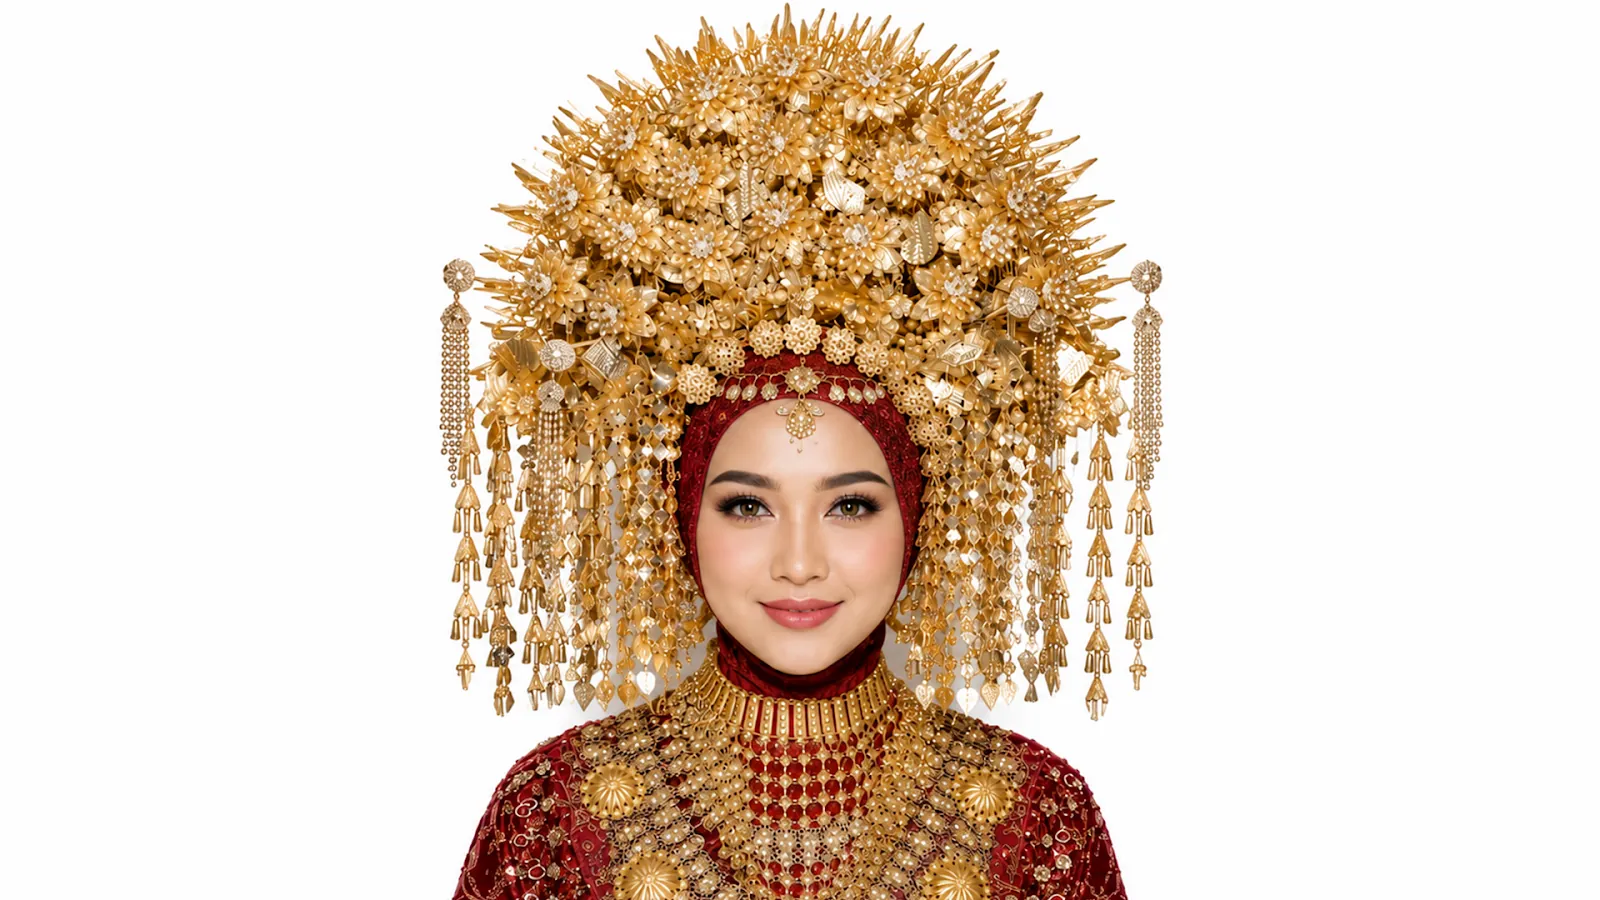
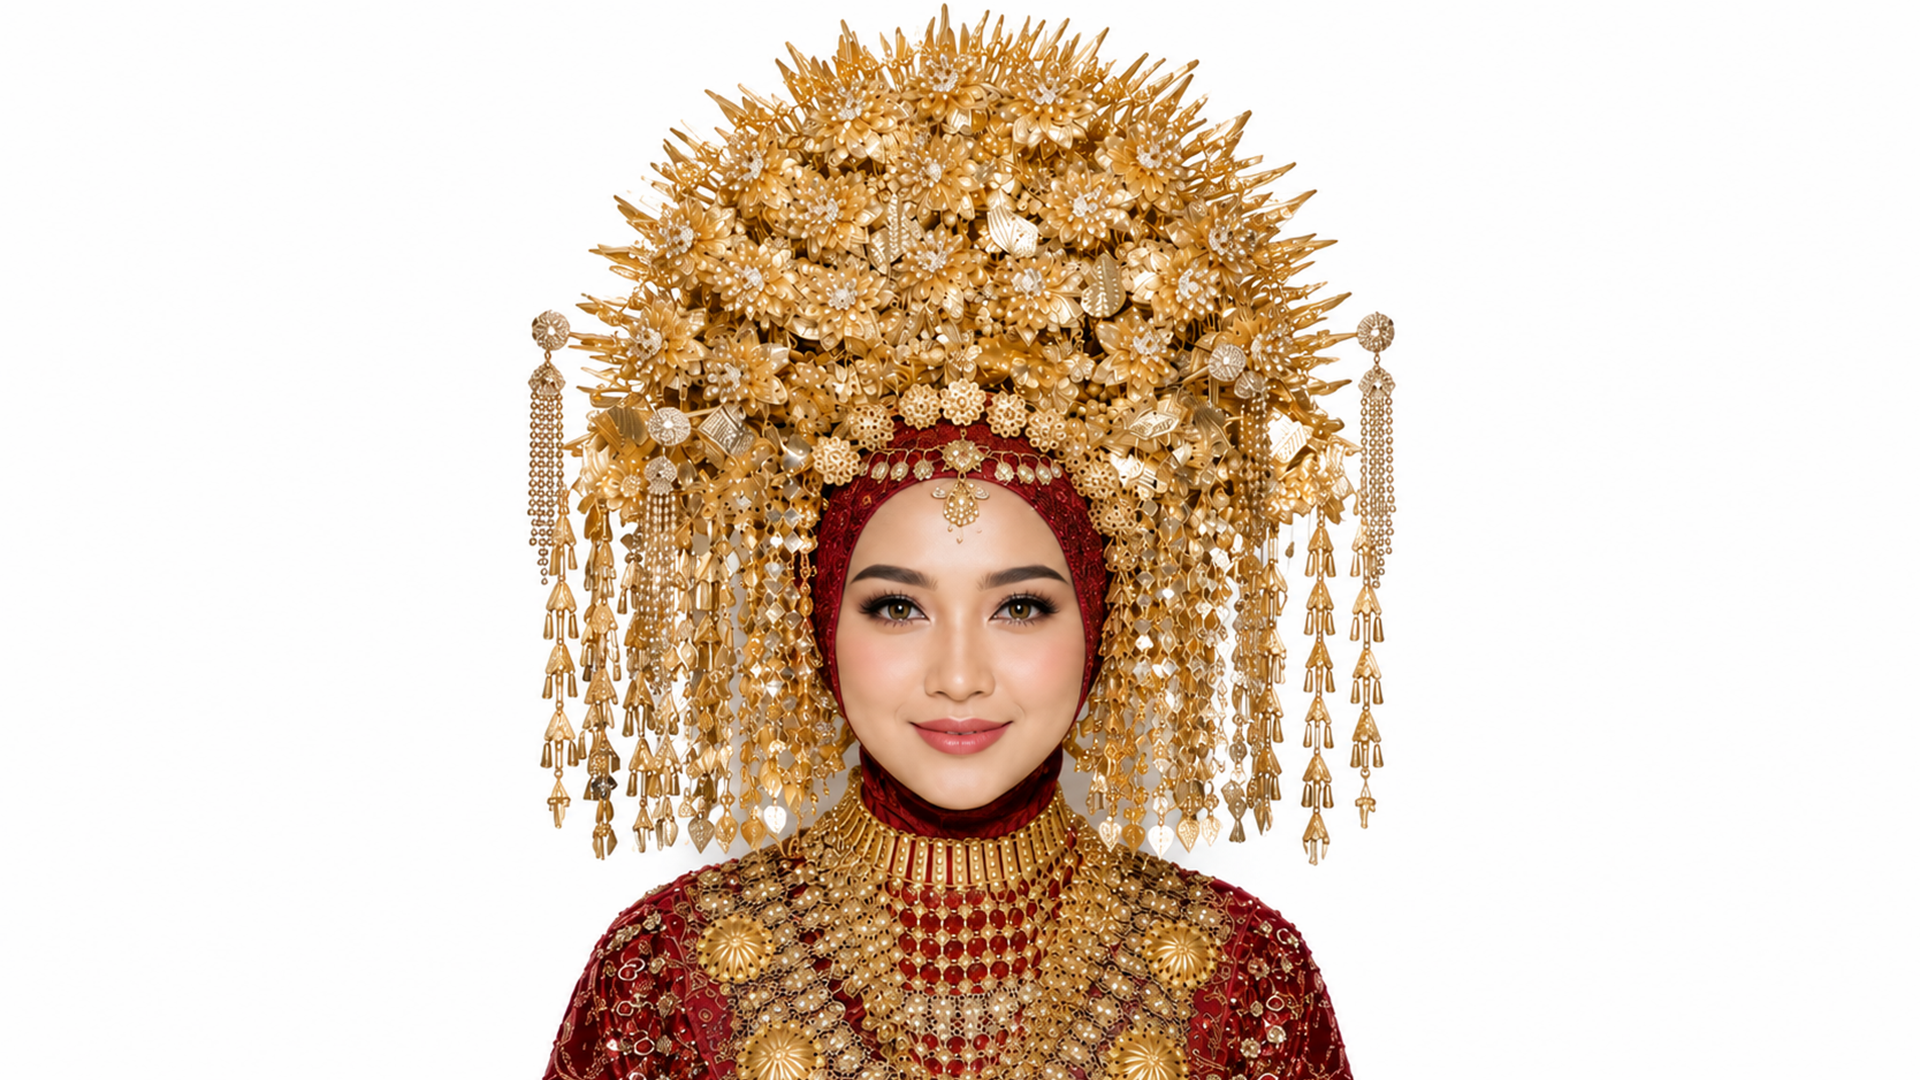
feat(hero): upgrade homepage hero backgrounds to Full-HD 1920px WebP and add 2K High-Res compression profile for Admin uploads

Changed region(s): [[0.6562, 0.9956, 0.6875, 1.0]]

diff --git a/src/utils/imageOptimizer.ts b/src/utils/imageOptimizer.ts
@@ -156,29 +156,52 @@ function blobToDataURL(blob: Blob): Promise<string> {
  */
 export async function processCatalogImageWithStats(
   file: File,
-  _folder: string = 'catalog',
+  folder: string = 'catalog',
   onProgress?: (percent: number) => void
 ): Promise<OptimizedImagePayload> {
   const originalBytes = file.size;
+  const isHeroBackground = folder === 'settings' || folder === 'hero';
 
   try {
     // Stage 1: Reading file & starting compression
     if (onProgress) onProgress(20);
 
-    // Stage 2: Client-side WebP compression (1200x900 max, quality 0.80)
-    let comp = await compressImageWithDimensions(file, 1200, 900, 0.80);
-    if (onProgress) onProgress(50);
+    let comp: { blob: Blob; width: number; height: number };
 
-    // Safeguard Tier 1: If larger than 110KB, adaptively compress to 1000x750 at 0.74
-    if (comp.blob.size > 110 * 1024) {
-      comp = await compressImageWithDimensions(file, 1000, 750, 0.74);
-      if (onProgress) onProgress(70);
-    }
+    if (isHeroBackground) {
+      // HIGH-RESOLUTION HERO BACKGROUND PROFILE:
+      // Preserves razor-sharp 2K/Full-HD clarity (up to 2048x1365 at 0.92 quality)
+      comp = await compressImageWithDimensions(file, 2048, 1365, 0.92);
+      if (onProgress) onProgress(55);
 
-    // Safeguard Tier 2: If still larger than 90KB, compress to 880x660 at 0.70
-    if (comp.blob.size > 90 * 1024) {
-      comp = await compressImageWithDimensions(file, 880, 660, 0.70);
-      if (onProgress) onProgress(85);
+      // Safeguard Tier 1 for Firestore 1MB document limit: if > 420KB, step to 1920x1200 at 0.88
+      if (comp.blob.size > 420 * 1024) {
+        comp = await compressImageWithDimensions(file, 1920, 1200, 0.88);
+        if (onProgress) onProgress(75);
+      }
+
+      // Safeguard Tier 2: if still > 360KB, step to 1920x1080 at 0.84 (still Full HD 1080p sharp!)
+      if (comp.blob.size > 360 * 1024) {
+        comp = await compressImageWithDimensions(file, 1920, 1080, 0.84);
+        if (onProgress) onProgress(90);
+      }
+    } else {
+      // STANDARD CATALOG THUMBNAIL PROFILE:
+      // Stage 2: Client-side WebP compression (1200x900 max, quality 0.82)
+      comp = await compressImageWithDimensions(file, 1200, 900, 0.82);
+      if (onProgress) onProgress(50);
+
+      // Safeguard Tier 1: If larger than 110KB, adaptively compress to 1000x750 at 0.76
+      if (comp.blob.size > 110 * 1024) {
+        comp = await compressImageWithDimensions(file, 1000, 750, 0.76);
+        if (onProgress) onProgress(70);
+      }
+
+      // Safeguard Tier 2: If still larger than 90KB, compress to 880x660 at 0.72
+      if (comp.blob.size > 90 * 1024) {
+        comp = await compressImageWithDimensions(file, 880, 660, 0.72);
+        if (onProgress) onProgress(85);
+      }
     }
 
     const compressedBytes = comp.blob.size;

diff --git a/src/components/ImageRevealBackground.tsx b/src/components/ImageRevealBackground.tsx
@@ -171,8 +171,8 @@ export const ImageRevealBackground: React.FC<ImageRevealBackgroundProps> = ({
     );
   }
 
-  // Determine screen-appropriate max width (mobile ~960px, desktop ~1600px)
-  const screenWidth = typeof window !== 'undefined' ? (window.innerWidth < 768 ? 960 : 1600) : 1200;
+  // Determine high-definition width for Retina mobile (~1440px) and 2K/Full-HD desktop (~2200px)
+  const screenWidth = typeof window !== 'undefined' ? (window.innerWidth < 768 ? 1440 : 2200) : 1920;
   const optimizedBase = optimizeImageUrl(baseImage, screenWidth);
   const optimizedReveal = optimizeImageUrl(revealImage, screenWidth);
 
